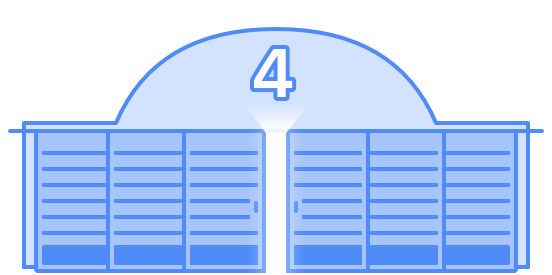
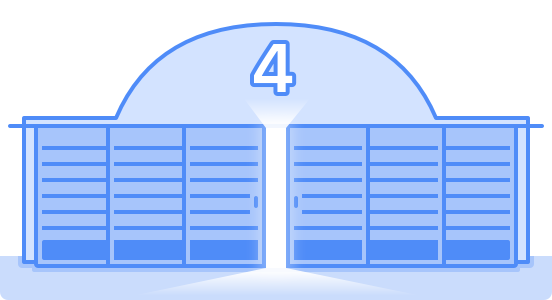
Added bottom line to mailplane_4_is_approaching@2x.png

diff --git a/assets/css/screen.css b/assets/css/screen.css
@@ -104,7 +104,7 @@ only screen and (min-device-pixel-ratio: 1.5)
 .main-cta .aniversary-box H3{font:normal 45px 'latolight', arial, helvetica, sans-serif;color:#242834;line-height:52px;margin:0 0 15px 0;}
 .main-cta .aniversary-box LI > A{font:normal 15px 'latoheavy', arial, helvetica, sans-serif;color:#242834;text-transform:uppercase;text-decoration:none;letter-spacing:2px;}
 .main-cta .aniversary-box LI > A:hover{color:#2a9efc;}
-.miniplane{display:block;width:415px;height:135px;position:absolute;top:-78px;left:0;right:0;margin-left:0;margin-right:0;background:transparent url('https://mailplaneapp.com/assets/images/plane.png') no-repeat top center;background-size:160px;}
+.miniplane{display:block;width:415px;height:135px;position:absolute;top:-74px;left:0;right:0;margin-left:0;margin-right:0;background:transparent url('https://mailplaneapp.com/assets/images/plane.png') no-repeat top center;background-size:160px;}
 .confetti-circle{display:block;width:13px;height:13px;position:absolute;background:transparent url('https://mailplaneapp.com/assets/images/confetti@2x.png') no-repeat;background-size:71px;}
 .circle-blue-one{top:120px;left:-34px;background-position:-58px 0;}
 .circle-blue-two{top:-24px;right:110px;background-position:-58px 0;}
